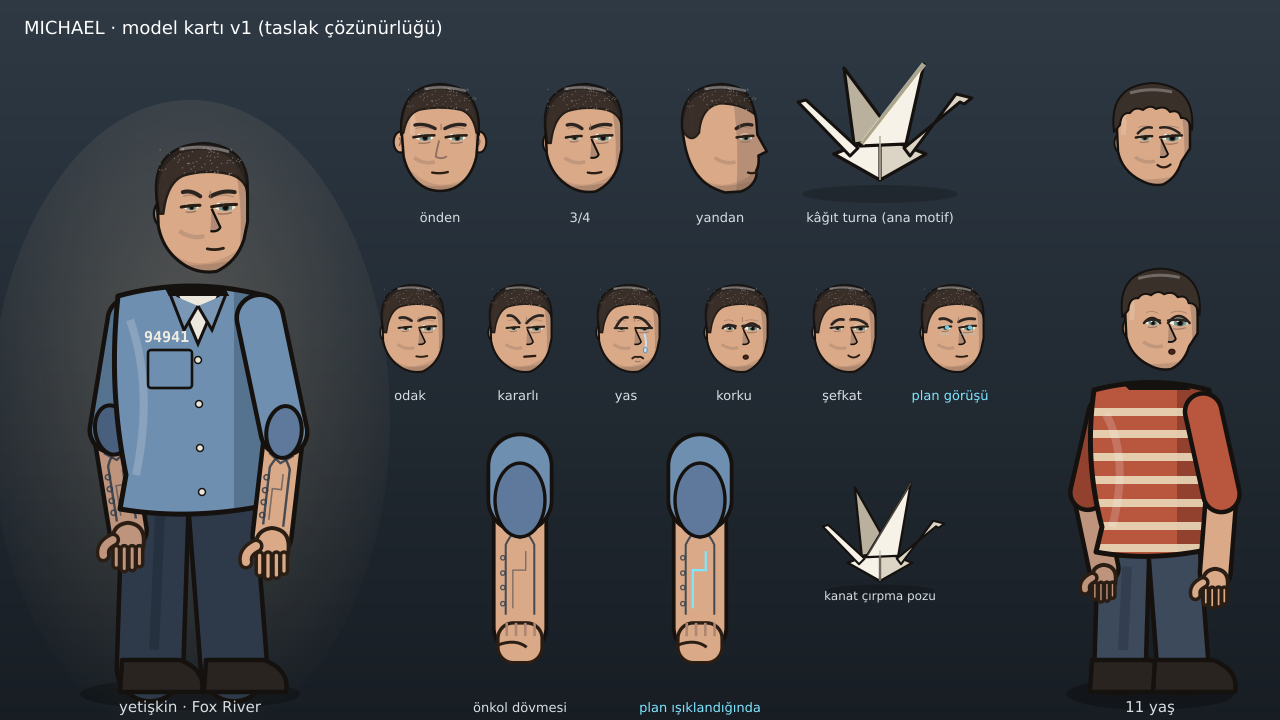
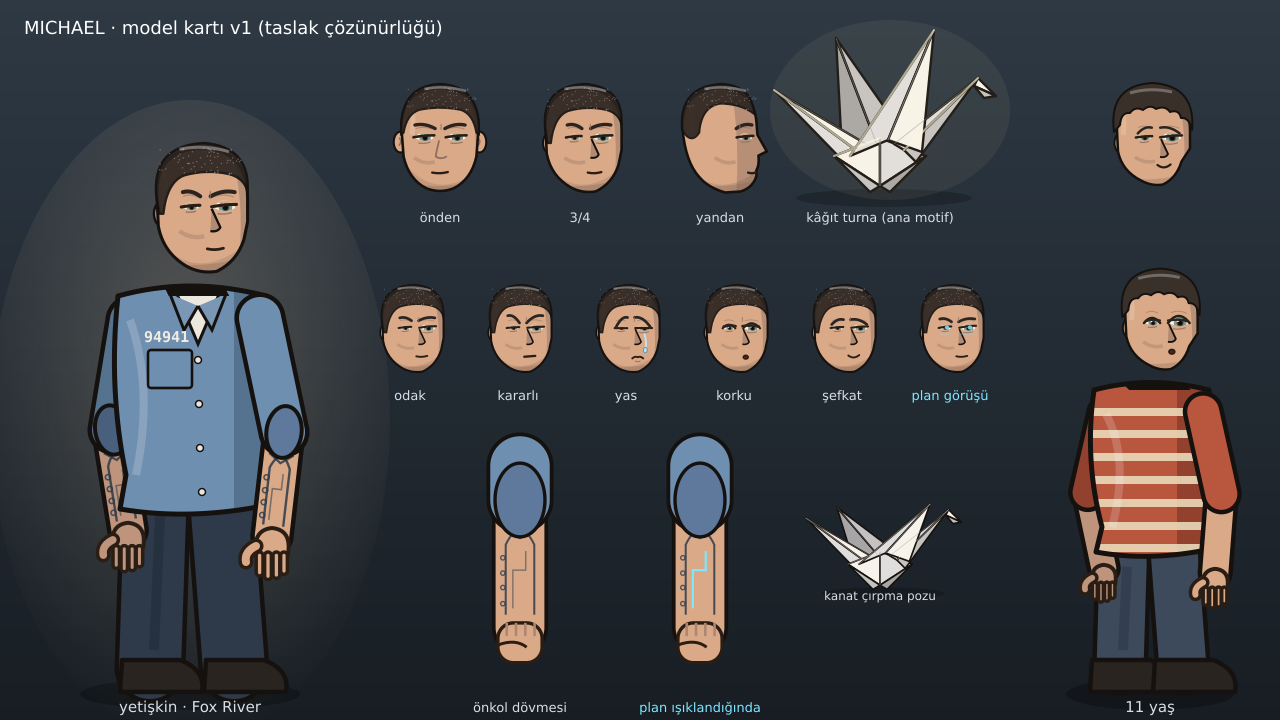
F3: pozlanabilir figür, eylem kartı v1, gerçekçi origami turna v3
Claude-Session: https://claude.ai/code/session_01ADfUkHjNCYiLn7Tbp4iBbS

Changed region(s): [[0.5938, 0.0306, 0.7812, 0.275], [0.625, 0.6722, 0.75, 0.825]]

diff --git a/projeler/michael-scofield/karakter.py b/projeler/michael-scofield/karakter.py
@@ -212,18 +212,153 @@ def figur(spec, ifade="odak", kol_sol=None, kol_sag=None, eller=("relax", "relax
     o.append(f'<g transform="rotate(180 {ka[2][0]:.1f} {ka[2][1]+8:.1f})">' + hand3(ka[2][0], ka[2][1] + 8, 20 * s, sk, eller[1], -1) + '</g>' if eller[1] == "relax" else hand3(ka[2][0], ka[2][1], 20 * s, sk, eller[1], 1))
     return "".join(o)
 
-def turna(s=1.0, isik=0.0, kanat=0.0):
-    """Kâğıt turna TEK KAYNAK. Merkez (0,0) gövde ortası. kanat: -1..1 kanat çırpma (animasyon)."""
-    p0, p1, p2 = "#F6F2E8", "#DCD5C6", "#B9B09E"
-    ky = -86 - 30 * kanat
-    return (f'<g transform="scale({s})">'
-            f'<ellipse cx="0" cy="44" rx="78" ry="9" fill="#000" opacity="0.2"/>'
-            f'<path d="M-26,-6 L-36,{ky*0.95:.0f} L16,-12 Z" fill="{p2}" stroke="{INK}" stroke-width="3.2" stroke-linejoin="round"/>'      # uzak kanat
-            f'<path d="M-46,4 L0,-14 L46,4 L0,30 Z" fill="{p1}" stroke="{INK}" stroke-width="3.2" stroke-linejoin="round"/>'              # gövde elması
-            f'<path d="M-46,4 L0,-14 L0,30 Z" fill="{p0}" stroke="{INK}" stroke-width="3.2" stroke-linejoin="round"/>'
-            f'<path d="M-30,6 L-82,-48 L-74,-50 L-22,-2 Z" fill="{p0}" stroke="{INK}" stroke-width="3" stroke-linejoin="round"/>'          # kuyruk
-            f'<path d="M30,6 L76,-56 L92,-52 L84,-46 L80,-48 L24,-2 Z" fill="{p1}" stroke="{INK}" stroke-width="3" stroke-linejoin="round"/>'  # boyun + baş
-            f'<path d="M-20,-4 L44,{ky:.0f} L26,-6 Z" fill="{p0}" stroke="{INK}" stroke-width="3.2" stroke-linejoin="round"/>'              # yakın kanat
-            f'<path d="M-18,-6 L44,{ky:.0f}" stroke="#FFF7D8" stroke-width="{2+5*isik:.1f}" opacity="{0.25+0.65*isik:.2f}"/>'
-            f'<path d="M0,-14 L0,30" stroke="{p2}" stroke-width="2" opacity="0.8"/>'
-            f'</g>')
+def turna(s=1.0, isik=0.0, kanat=0.0, kagit="#F7F3EA", golge=True):
+    """Kâğıt turna TEK KAYNAK (v3.1, gerçekçi origami). Merkez (0,0) gövde ortası, sağa bakar.
+    Elmas gövde, ince yukarı boyun ve kuyruk sivrileri, aşağı katlı baş, V açısıyla kalkan iki geniş
+    üçgen kanat (her biri kat iziyle ışık/gölge yüzeyine bölünür), hafif kâğıt dokusu.
+    isik: 0..1 sabah ışığı; kanat: -1..1 kanat çırpma (V açılır/kapanır)."""
+    L = kagit; M = shade(kagit, 0.91); D = shade(kagit, 0.80); DD = shade(kagit, 0.68)
+    lw = 2.4 / max(s, 0.3) ** 0.6; crease = shade(kagit, 0.58)
+    def pg(pts, fill):
+        d = "M" + " L".join(f"{x:.1f},{y:.1f}" for x, y in pts) + " Z"
+        return f'<path d="{d}" fill="{fill}" stroke="{INK}" stroke-width="{lw:.2f}" stroke-linejoin="round"/>'
+    def ln(a, b, w=1.1, op=0.75):
+        return f'<path d="M{a[0]:.1f},{a[1]:.1f} L{b[0]:.1f},{b[1]:.1f}" stroke="{crease}" stroke-width="{w/max(s,0.3)**0.5:.2f}" opacity="{op}"/>'
+    sp = 22 * kanat                                 # V açıklığı
+    fa = (-44 - sp, -112 + 46 * kanat)         # uzak kanat ucu
+    na = (54 + sp, -120 + 50 * kanat)          # yakın kanat ucu
+    o = [f'<g transform="scale({s})">'] + ([f'<ellipse cx="4" cy="48" rx="88" ry="9" fill="#000" opacity="0.22"/>'] if golge else [])
+    # uzak kanat: iki yüz
+    fm = (-4, -8)
+    o += [pg([(-38, 2), fa, fm], DD), pg([fm, fa, (30, -6)], D)]
+    # kuyruk
+    o += [pg([(-24, 0), (-106, -60), (-36, 12)], M), pg([(-24, 0), (-106, -60), (-14, -6)], L)]
+    # gövde elması (ışık sol üstten)
+    o += [pg([(-46, 6), (0, -12), (0, 36)], L), pg([(0, -12), (46, 6), (0, 36)], M),
+          pg([(-46, 6), (0, 36), (-10, 42)], D), pg([(0, 36), (46, 6), (10, 42)], DD)]
+    # boyun + baş
+    o += [pg([(24, 0), (98, -72), (36, 12)], D), pg([(24, 0), (98, -72), (14, -6)], M),
+          pg([(98, -72), (94, -64), (116, -54)], L), pg([(94, -64), (116, -54), (104, -52)], D)]
+    # yakın kanat: iki yüz (ışık + gölge), kat izi
+    nm = (8, -10)
+    o += [pg([(-30, 6), na, nm], M), pg([nm, na, (42, 2)], L), ln(nm, na)]
+    # kat izleri
+    o += [ln((0, -12), (0, 36)), ln((-14, -6), (-106, -60), 0.9, 0.5), ln((14, -6), (98, -72), 0.9, 0.5), ln(fm, fa, 0.9, 0.5)]
+    # kâğıt dokusu: çok ince lifler (yalnız büyük ölçekte)
+    if False:
+        r = random.Random(7)
+        for _ in range(26):
+            x, y = r.uniform(-30, 40), r.uniform(-90, 30)
+            o.append(f'<path d="M{x:.0f},{y:.0f} l{r.uniform(4,10):.0f},{r.uniform(-3,3):.0f}" stroke="{D}" stroke-width="0.6" opacity="0.5"/>')
+    # kenar ışığı ve sabah ışığı
+    hl = "#FFF8DC"
+    o.append(f'<path d="M-30,6 L{na[0]:.0f},{na[1]:.0f} M24,0 L98,-72 M-24,0 L-106,-60 M-46,6 L0,-12" stroke="{hl}" stroke-width="{(1.2+1.6*isik)/max(s,0.3)**0.5:.2f}" opacity="{0.4+0.4*isik:.2f}" stroke-linecap="round"/>')
+    if isik > 0 and golge: o.append(f'<ellipse cx="10" cy="-40" rx="120" ry="90" fill="#FFE9B0" opacity="{0.10*isik:.2f}"/>')
+    o.append('</g>')
+    return "".join(o)
+
+# ───────────────────────── v2: iskeletli, pozlanabilir figür ─────────────────────────
+def _uc(x, y, a, L):
+    """(x,y) noktasından dikeyden a derece (sağa +) L uzunlukta aşağı doğru uç."""
+    r = math.radians(a); return x + L * math.sin(r), y + L * math.cos(r)
+
+def _seg(a, b, w, c):
+    return (f'<path d="M{a[0]:.1f},{a[1]:.1f} L{b[0]:.1f},{b[1]:.1f}" stroke="{INK}" stroke-width="{w+9:.1f}" stroke-linecap="round"/>'
+            f'<path d="M{a[0]:.1f},{a[1]:.1f} L{b[0]:.1f},{b[1]:.1f}" stroke="{c}" stroke-width="{w:.1f}" stroke-linecap="round"/>')
+
+POZ_DUR = dict(govde=3, bas=0, kol_on=(8, -6), kol_arka=(-6, 10), bacak_on=(4, 0), bacak_arka=(-6, 6), el_on="relax", el_arka="relax")
+
+def figur2(spec, ifade="odak", poz=None, plan=False, numara_goster=True, el_on_ek=""):
+    """Pozlanabilir 3/4 figür, sağa bakar, yer y=0. poz alanları (derece):
+    govde: gövde eğimi (öne +); bas: baş eğimi; kol_on/kol_arka: (omuz, dirsek) dikeyden, öne +;
+    bacak_on/bacak_arka: (kalça, diz bükümü); el_on/el_arka: relax|open|fist|grip|point.
+    el_on_ek: yakın elin içine çizilecek SVG ('HX','HY' yer tutucu)."""
+    p = dict(POZ_DUR); p.update(poz or {})
+    child = spec.get("child"); s = 0.76 if child else 1.0; br = 1.18 if spec.get("broad") else 1.0
+    sk = spec["skin"]; sh = spec["shirt"]; sd = spec["shirt_d"]
+    TH, SN = 118 * s, 112 * s            # uyluk, baldır
+    UA, FA = 112 * s, 104 * s            # üst kol, ön kol
+    TOR = 200 * s                        # pelvis→omuz
+    # pelvis yüksekliği: en alçak ayak yere değsin
+    def ayak_y(t, k):
+        kx, ky = _uc(0, 0, t, TH); ax, ay = _uc(kx, ky, t - k, SN); return ay
+    hip_y = -max(ayak_y(*p["bacak_on"]), ayak_y(*p["bacak_arka"])) - 26 * s
+    hip = (0, hip_y)
+    g = math.radians(p["govde"])
+    def tw(lx, ly):  # gövde yerelinden dünyaya (pelvis merkezli, yukarı -y)
+        return hip[0] + lx * math.cos(g) - ly * math.sin(g), hip[1] + lx * math.sin(g) + ly * math.cos(g)
+    sh_on, sh_ark = tw(64 * br * s, -TOR + 14 * s), tw(-60 * br * s, -TOR + 18 * s)
+    neck = tw(8 * s, -TOR - 10 * s)
+    o = [f'<ellipse cx="0" cy="4" rx="{110*br*s:.0f}" ry="16" fill="#000" opacity="0.25"/>']
+    def bacak(side, t, k, ton):
+        hx, hy = tw(side * 26 * br * s, 0)
+        kx, ky = _uc(hx, hy, t, TH); ax, ay = _uc(kx, ky, t - k, SN)
+        out = _seg((hx, hy), (kx, ky), 60 * s, ton) + _seg((kx, ky), (ax, ay), 54 * s, ton)
+        out += (f'<path d="M{ax-26*s:.0f},{ay-10:.0f} L{ax+30*s:.0f},{ay-10:.0f} Q{ax+54*s:.0f},{ay+2:.0f} {ax+50*s:.0f},{ay+22:.0f} L{ax-28*s:.0f},{ay+22:.0f} Z" '
+                f'fill="{spec["shoe"]}" stroke="{INK}" stroke-width="4.5" stroke-linejoin="round" transform="rotate({max(-25, min(25, (t-k)*0.5)):.0f} {ax:.0f} {ay:.0f})"/>')
+        return out
+    def kol(sp, oa, da, w, renk, ten, el, ek=""):
+        ex, ey = _uc(*sp, oa, UA); wx, wy = _uc(ex, ey, oa + da, FA)
+        out = _seg((ex, ey), (wx, wy), w * 0.8, ten)
+        if not child and not spec.get("female"):
+            out += f'<g transform="translate({ex:.1f},{ey:.1f}) rotate({-(oa+da):.1f})">{dovme_onkol(w*0.8, FA, plan)}</g>'
+        out += _seg(sp, (ex, ey), w, renk)
+        if not child:
+            out += (f'<ellipse cx="{ex:.1f}" cy="{ey:.1f}" rx="{w*0.62:.1f}" ry="{w*0.42:.1f}" fill="{shade(renk,0.85)}" stroke="{INK}" stroke-width="4" '
+                    f'transform="rotate({90-(oa+da):.1f} {ex:.1f} {ey:.1f})"/>')
+        hx, hy = _uc(wx, wy, oa + da, 14 * s)
+        if el == "relax":
+            out += f'<g transform="rotate({180-(oa+da):.1f} {hx:.1f} {hy:.1f})">{hand3(hx, hy, 20*s, ten, "open", -1)}</g>'
+        else:
+            out += f'<g transform="rotate({-(oa+da)*0.6:.1f} {hx:.1f} {hy:.1f})">{hand3(hx, hy, 20*s, ten, el, 1)}</g>'
+        if ek: out += ek.replace("HX", f"{hx:.1f}").replace("HY", f"{hy:.1f}")
+        return out
+    # arka katmanlar
+    o.append(bacak(-1, *p["bacak_arka"], shade(spec["pants"], 0.82)))
+    o.append(kol(sh_ark, *p["kol_arka"], 40 * s * br, sd, shade(sk, 0.88), p["el_arka"]))
+    o.append(bacak(1, *p["bacak_on"], spec["pants"]))
+    # gövde: V biçimli, yerel koordinatta çizilip döndürülür
+    W1, W2 = 72 * br * s, 50 * br * s
+    torso = (f"M{-W1:.0f},{-TOR+10*s:.0f} Q{-W1-8:.0f},{-TOR*0.6:.0f} {-W2:.0f},{-TOR*0.2:.0f} L{-W2-4:.0f},{20*s:.0f} "
+             f"Q0,{34*s:.0f} {W2+6:.0f},{18*s:.0f} L{W2+2:.0f},{-TOR*0.2:.0f} Q{W1+10:.0f},{-TOR*0.6:.0f} {W1:.0f},{-TOR+10*s:.0f} "
+             f"Q0,{-TOR-16*s:.0f} {-W1:.0f},{-TOR+10*s:.0f} Z")
+    tid = f"v{abs(hash((sh, s, br, p['govde']))) % 10**7}"
+    inner = [f'<rect x="{W2-6:.0f}" y="{-TOR-40:.0f}" width="80" height="{TOR+90:.0f}" fill="{sd}"/>',
+             f'<path d="M{-W1+10:.0f},{-TOR+30:.0f} Q{-W2+10:.0f},{-TOR*0.4:.0f} {-W2+6:.0f},0" stroke="#FFFFFF" stroke-width="9" fill="none" opacity="0.16"/>']
+    if spec.get("stripes"):
+        for k in range(9): inner.append(f'<rect x="-200" y="{-TOR+20*s+k*28*s:.0f}" width="400" height="{10*s:.0f}" fill="{spec["stripes"]}" opacity="0.9"/>')
+    elif not spec.get("female"):
+        inner.append(f'<path d="M-6,{-TOR-6:.0f} L14,{-TOR+44*s:.0f} L34,{-TOR-6:.0f}" fill="{spec["under"]}" stroke="{INK}" stroke-width="3"/>'
+                     f'<path d="M-14,{-TOR-2:.0f} L2,{-TOR+32*s:.0f} L14,{-TOR+8*s:.0f} M42,{-TOR-2:.0f} L26,{-TOR+32*s:.0f} L14,{-TOR+8*s:.0f}" fill="{shade(sh,1.08)}" stroke="{INK}" stroke-width="3"/>'
+                     + "".join(f'<circle cx="16" cy="{-TOR+58*s+k*42*s:.0f}" r="3.5" fill="#E8E4DA" stroke="{INK}" stroke-width="1.5"/>' for k in range(4))
+                     + f'<rect x="{-W1+16:.0f}" y="{-TOR+52*s:.0f}" width="40" height="34" rx="3" fill="none" stroke="{INK}" stroke-width="2.6"/>')
+        if numara_goster:
+            inner.append(f'<text x="{-W1+14:.0f}" y="{-TOR+44*s:.0f}" font-family="DejaVu Sans Mono" font-weight="bold" font-size="14" fill="#F0ECE2">94941</text>')
+    o.append(f'<g transform="translate({hip[0]:.1f},{hip[1]:.1f}) rotate({p["govde"]})">'
+             f'<defs><clipPath id="{tid}"><path d="{torso}"/></clipPath></defs><path d="{torso}" fill="{sh}"/>'
+             f'<g clip-path="url(#{tid})">{"".join(inner)}</g><path d="{torso}" fill="none" stroke="{INK}" stroke-width="5" stroke-linejoin="round"/></g>')
+    # boyun + baş
+    hx, hy = _uc(*neck, 180 + p["govde"] * 0.3 + p["bas"] * 0.3, 70 * s)
+    o.append(_seg(neck, (neck[0] + (hx - neck[0]) * 0.5, neck[1] + (hy - neck[1]) * 0.5), 44 * s, shade(sk, 0.84)))
+    o.append(f'<g transform="translate({hx:.1f},{hy:.1f}) rotate({p["govde"]*0.4 + p["bas"]:.1f}) scale({0.62*s*(1.05 if child else 1):.3f})">{kafa(spec, "3q", ifade)}</g>')
+    o.append(kol(sh_on, *p["kol_on"], 42 * s * br, sh, sk, p["el_on"], el_on_ek))
+    return "".join(o)
+
+POZLAR = {
+    "dur":        POZ_DUR,
+    "bak_1":      dict(bas=-4),
+    "bak_2":      dict(bas=6, govde=4),
+    "bak_3":      dict(bas=10, govde=6, kol_on=(14, -10)),
+    "dokun_1":    dict(govde=6, kol_on=(30, -20), el_on="relax"),
+    "dokun_2":    dict(govde=10, kol_on=(70, -30), el_on="open"),
+    "dokun_3":    dict(govde=14, kol_on=(100, -12), el_on="open", bacak_on=(14, 10)),
+    "yuru_1":     dict(govde=6, kol_on=(-18, 14), kol_arka=(22, 18), bacak_on=(22, 4), bacak_arka=(-18, 14)),
+    "yuru_2":     dict(govde=6, kol_on=(2, 10), kol_arka=(0, 10), bacak_on=(2, 0), bacak_arka=(-4, 30)),
+    "yuru_3":     dict(govde=6, kol_on=(22, 18), kol_arka=(-18, 14), bacak_on=(-18, 14), bacak_arka=(22, 4)),
+    "kos_1":      dict(govde=16, bas=-4, kol_on=(-36, 70), kol_arka=(40, 60), bacak_on=(40, 22), bacak_arka=(-38, 70), el_on="fist", el_arka="fist"),
+    "kos_2":      dict(govde=14, bas=-4, kol_on=(4, 76), kol_arka=(-4, 76), bacak_on=(4, 8), bacak_arka=(16, 96), el_on="fist", el_arka="fist"),
+    "kos_3":      dict(govde=16, bas=-4, kol_on=(40, 60), kol_arka=(-36, 70), bacak_on=(-38, 70), bacak_arka=(40, 22), el_on="fist", el_arka="fist"),
+    "uzat_1":     dict(govde=2, kol_on=(10, 60), el_on="grip"),
+    "uzat_2":     dict(govde=6, kol_on=(40, 40), el_on="open"),
+    "uzat_3":     dict(govde=10, kol_on=(76, 6), el_on="open", bas=4),
+}

diff --git a/projeler/michael-scofield/kartlar/eylem_michael.py b/projeler/michael-scofield/kartlar/eylem_michael.py
@@ -1,0 +1,39 @@
+"""F3 eylem kartı v1: 5 eylem × 3 anahtar kare (bak, dokun, yürü, koş, turna uzat). 1280x720."""
+import subprocess, sys
+from pathlib import Path
+P = Path(__file__).resolve().parent; sys.path.insert(0, str(P.parent))
+import karakter as K
+W, H = 1280, 720
+EYLEM = [("bak", "dönüp bakar", ["odak", "odak", "plan"]), ("dokun", "duvara dokunur", ["odak", "kararli", "plan"]),
+         ("yuru", "yürür", ["odak"] * 3), ("kos", "koşar (kaçış)", ["kararli"] * 3), ("uzat", "turna uzatır", ["sefkat"] * 3)]
+def svg():
+    o = [f'<svg xmlns="http://www.w3.org/2000/svg" width="{W}" height="{H}" viewBox="0 0 {W} {H}">',
+         '<defs><linearGradient id="bg" x1="0" y1="0" x2="0" y2="1"><stop offset="0" stop-color="#2E3944"/><stop offset="1" stop-color="#171D23"/></linearGradient></defs>',
+         f'<rect width="{W}" height="{H}" fill="url(#bg)"/>',
+         '<text x="24" y="34" font-family="DejaVu Sans" font-size="18" fill="#fff">MICHAEL · eylem kartı v1 (5 eylem × 3 anahtar kare)</text>']
+    for c, (ad, et, ifs) in enumerate(EYLEM):
+        x0 = 30 + c * 250
+        o.append(f'<text x="{x0+110}" y="70" font-family="DejaVu Sans" font-size="15" fill="#D8DEE4" text-anchor="middle">{et}</text>')
+        for r in range(3):
+            y = 290 + r * 210 if False else 0
+        for k in range(3):
+            pz = K.POZLAR[f"{ad}_{k+1}"]
+            ek = ""
+            if ad == "uzat":
+                ek = f'<g transform="translate(HX,HY) translate(10,-30) scale(0.45)">{K.turna(1.0, isik=0.3*k, golge=False)}</g>'
+            fig = K.figur2(K.MICHAEL, ifs[k], pz, plan=(ifs[k] == "plan"), el_on_ek=ek)
+            o.append(f'<g transform="translate({x0 + 40 + k*70},{690}) scale(0.62)" opacity="{0.45 if k < 2 else 1}">{fig}</g>' if False else
+                     f'<g transform="translate({x0 + 110},{250 + k*0}) " ></g>')
+        # üç kareyi alt alta değil yan yana küçük ölçekte: kare k → satır k
+        for k in range(3):
+            pz = K.POZLAR[f"{ad}_{k+1}"]
+            ek = f'<g transform="translate(HX,HY) translate(6,-34) scale(0.5)">{K.turna(1.0, isik=0.3*k, golge=False)}</g>' if ad == "uzat" else ""
+            fig = K.figur2(K.MICHAEL, ifs[k], pz, plan=(ifs[k] == "plan"), el_on_ek=ek)
+            yy = 280 + k * 205
+            o.append(f'<rect x="{x0}" y="{yy-196}" width="230" height="200" rx="8" fill="#000" opacity="0.18"/>')
+            o.append(f'<g transform="translate({x0+100},{yy}) scale(0.32)">{fig}</g>')
+            o.append(f'<text x="{x0+8}" y="{yy-178}" font-family="DejaVu Sans Mono" font-size="12" fill="#7FE6FF">{k+1}</text>')
+    o.append('</svg>'); return "".join(o)
+if __name__ == "__main__":
+    f = P / "eylem_michael_v1.svg"; f.write_text(svg())
+    subprocess.run(["rsvg-convert", "-w", str(W), "-o", str(P / "eylem_michael_v1.png"), str(f)], check=True); f.unlink(); print("tamam")

diff --git a/projeler/michael-scofield/kartlar/turna_karti.py b/projeler/michael-scofield/kartlar/turna_karti.py
@@ -1,0 +1,28 @@
+"""Turna nesne kartı v3: büyük çizim, %200 kırpma (R13), sabah ışığı, kanat çırpma, küçük boyut okunurluğu."""
+import subprocess, sys
+from pathlib import Path
+P = Path(__file__).resolve().parent; sys.path.insert(0, str(P.parent))
+import karakter as K
+W, H = 1280, 720
+def t(x, y, s, **k): return f'<g transform="translate({x},{y})">{K.turna(s, **k)}</g>'
+o = [f'<svg xmlns="http://www.w3.org/2000/svg" width="{W}" height="{H}" viewBox="0 0 {W} {H}">',
+     '<defs><linearGradient id="bg" x1="0" y1="0" x2="0" y2="1"><stop offset="0" stop-color="#2E3944"/><stop offset="1" stop-color="#171D23"/></linearGradient>'
+     '<linearGradient id="sabah" x1="0" y1="0" x2="1" y2="1"><stop offset="0" stop-color="#F3D9A8"/><stop offset="1" stop-color="#B98A5A"/></linearGradient></defs>',
+     f'<rect width="{W}" height="{H}" fill="url(#bg)"/>',
+     '<text x="24" y="34" font-family="DejaVu Sans" font-size="18" fill="#fff">KÂĞIT TURNA · nesne kartı v3 (gerçekçi origami)</text>',
+     t(300, 360, 2.6),
+     '<text x="300" y="560" font-family="DejaVu Sans" font-size="14" fill="#D8DEE4" text-anchor="middle">ana çizim (nötr ışık)</text>',
+     '<rect x="620" y="70" width="300" height="300" rx="10" fill="url(#sabah)"/>',
+     '<path d="M620,330 H920 V370 H620 Z" fill="#E9E1D2"/><path d="M620,330 H920" stroke="#15110E" stroke-width="3"/>',
+     t(770, 290, 1.4, isik=1.0),
+     '<text x="770" y="392" font-family="DejaVu Sans" font-size="14" fill="#D8DEE4" text-anchor="middle">sabah ışığında, yatak başında</text>',
+     t(1010, 300, 0.9, kanat=-0.3), t(1160, 300, 0.9, kanat=1.0),
+     '<text x="1080" y="392" font-family="DejaVu Sans" font-size="14" fill="#D8DEE4" text-anchor="middle">kanat çırpma: açık / kalkık</text>',
+     '<text x="780" y="470" font-family="DejaVu Sans" font-size="14" fill="#D8DEE4" text-anchor="middle">küçük boyut okunurluğu (120 / 60 / 32 px)</text>',
+     t(680, 600, 0.55), t(830, 610, 0.28), t(930, 615, 0.15),
+     '</svg>']
+f = P / "turna_v3.svg"; f.write_text("".join(o))
+subprocess.run(["rsvg-convert", "-w", str(W), "-o", str(P / "turna_v3.png"), str(f)], check=True); f.unlink()
+# R13: %200 kırpma
+subprocess.run(["ffmpeg", "-y", "-loglevel", "error", "-i", str(P / "turna_v3.png"), "-vf", "crop=360:300:120:200,scale=720:600", str(P / "turna_v3_r13.png")], check=True)
+print("tamam")

diff --git a/projeler/michael-scofield/karar_gunlugu.md b/projeler/michael-scofield/karar_gunlugu.md
@@ -36,3 +36,10 @@ Her tur sonunda bir kayıt eklenir. **Ders** satırı zorunludur. Tekrarlayan de
 - Teknik: Ragnar'ın `head3` fonksiyonu her erkek karaktere Ragnar'ın yarasını ekliyordu (R3 sızıntı riski) → projeye özel eklemli `karakter.py` yazıldı (kafa, kol, figür, dövme ve turna tek kaynak).
 - Öz değerlendirme: 1. tur nokta gözler, turna uçağa benziyor, diken saçlı çocuk, numara kolun altında → 2. tur büyük gözler, yeni turna, yuvarlak tutamlı saç, numara sol göğüste → 3. tur turna kanatları genişletildi, sarkan eller parmak aşağı, etiket çakışması giderildi.
 - Ders: Ödünç alınan karakter fonksiyonları başka karakterin kimlik öğelerini varsayılan olarak taşıyabilir → yeni projede kimlik bayrakları varsayılan "kapalı" olan yeni modül yazılır.
+
+## Tur 5 · 26.11.2026 16:50–17:15 · F3 beden dinamiği, eylem kartı, turna v3
+- Kararlar (Tur 4 sorusu): model kartı → **yön doğru, beden dinamikleşsin**; turna ve dövme → **uygun**. Kullanıcı ardından (16:18): **"turnayı iyileştir, daha belirgin ve gerçekçi olmalı."**
+- Yapılanlar: `karakter.py` → `figur2()` iskeletli, pozlanabilir figür (gövde eğimi, baş, omuz/dirsek, kalça/diz; pelvis yüksekliği ayağa göre otomatik). `POZLAR`: bak, dokun, yürü, koş, turna uzat (her biri 3 anahtar kare). `kartlar/eylem_michael_v1.png`.
+- Turna v3.1: elmas gövde, ince boyun ve kuyruk sivrileri, aşağı katlı baş, V açısıyla kalkan geniş üçgen kanatlar (kat iziyle ışık/gölge yüzeyi), sabit kontur kalınlığı, kanat çırpma parametresi, elde tutulurken gölge/hale kapalı. `kartlar/turna_v3.png` (+ R13 kırpması, 120/60/32 px okunurluk).
+- Öz değerlendirme: turna 1. tur kanatlar şerit gibi, taç görünümü, kirli doku → 2. tur geniş üçgen kanatlar, hafif doku → 3. tur liflerin taşması ve kalın sabah ışığı giderildi. Eylem kartı: koşu orta karesi çökük → yeniden kuruldu; elde turnanın gölgesi kaldırıldı.
+- Ders: Origami gibi gerçek nesnelerde siluet önce doğru kurulmalı (kanat = gövde sırtından çıkan geniş üçgen); doku ve ışık ancak siluet okunduktan sonra eklenir. Küçük boyut (32 px) kontrolü siluet hatasını hemen gösterir.
